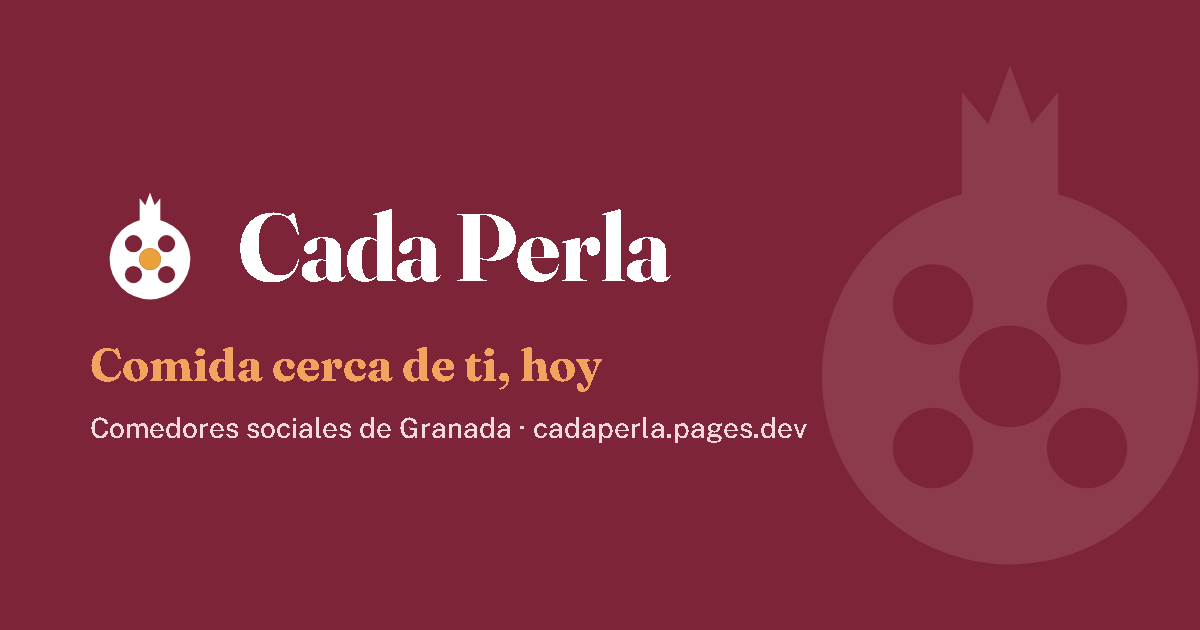
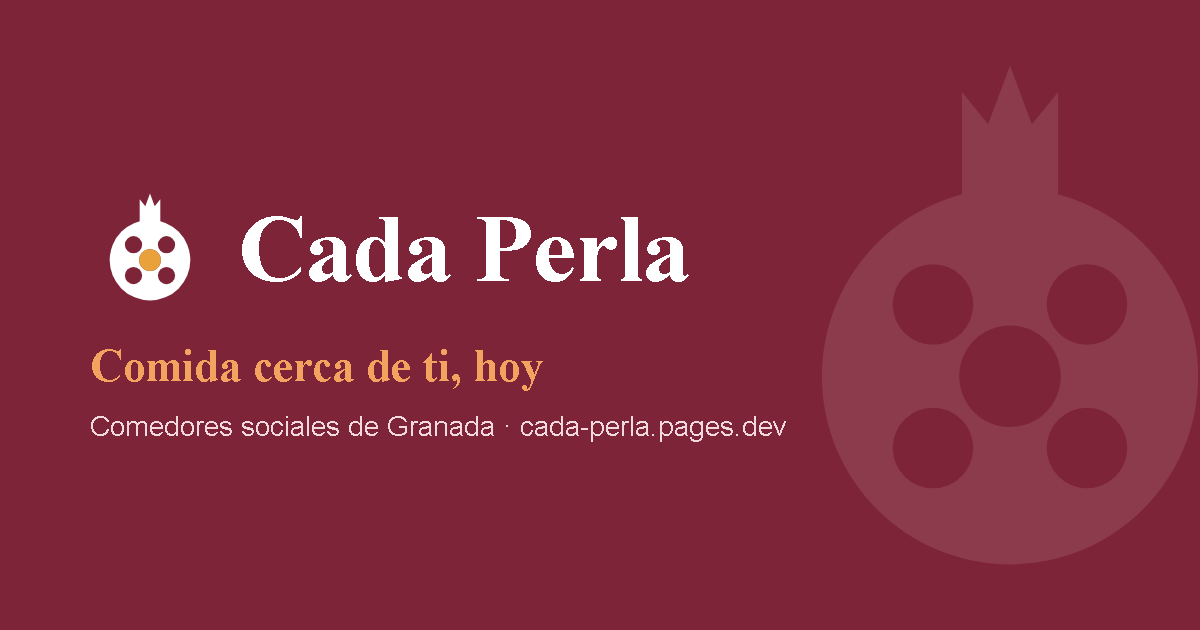
La imagen de vista previa imprimía un dominio que no existe
Al compartir el enlace por WhatsApp o redes, la tarjeta de vista previa decía
"cadaperla.pages.dev" — sin guion. Ese dominio no resuelve. Quien leyera la
dirección en la tarjeta y la tecleara a mano no llegaba a ninguna parte, y
esta web se pasa precisamente así, de boca en boca.

El sitio real es cada-perla.pages.dev. El fallo estaba escrito a fuego en el
HTML del que se genera la imagen; probablemente se mezcló con el
"cadaperla.org" que el briefing menciona como dominio de ejemplo.

Lo detectó la madre de Andrii intentando entrar.

Además, los enlaces de la atribución del mapa ("Leaflet" / "OpenStreetMap")
pasan a un color más oscuro. El de la librería es rgb(0, 120, 168): 4.94:1
sobre blanco sólido, justo por encima del mínimo de WCAG AA y sin margen. El
fondo real es peor, porque la caja es blanco al 80% sobre las teselas, y ese
píxel compuesto no se puede medir (las teselas vienen sin CORS y leer el
canvas queda bloqueado). Como no se puede medir, se oscurece con margen en
lugar de ajustar al filo. La atribución no se toca: enseñarla es obligatorio
por la licencia de OpenStreetMap.

diff --git a/src/styles.css b/src/styles.css
@@ -194,3 +194,26 @@
     outline-offset: 2px;
   }
 }
+
+/*
+ * Los enlaces "Leaflet" / "OpenStreetMap" de la atribución del mapa vienen
+ * en rgb(0, 120, 168) por defecto de la librería: 4.94:1 sobre blanco
+ * sólido, justo por encima del 4.5:1 de WCAG AA y sin ningún margen.
+ *
+ * El fondo real es peor que el blanco sólido: la caja de atribución es
+ * blanco al 80% SOBRE las teselas del mapa, así que el contraste efectivo
+ * baja según lo oscura que sea la tesela de debajo. No se puede medir ese
+ * píxel compuesto —las teselas vienen de tile.openstreetmap.org sin CORS,
+ * y leer el canvas queda bloqueado—, así que el número exacto no lo sabemos:
+ * solo sabemos que es menor que 4.94 y que varía con el mapa.
+ *
+ * Por eso se oscurece hasta bastante por debajo del mínimo teórico, en vez
+ * de ajustar al filo: con un fondo que no podemos medir, el margen sustituye
+ * a la precisión. Más oscuro que el --warm del resto de la web a propósito.
+ *
+ * Se cambia el color en lugar de tocar la atribución porque enseñarla es
+ * obligatorio por la licencia de OpenStreetMap.
+ */
+.leaflet-control-attribution a {
+  color: oklch(0.4 0.024 8.5);
+}
